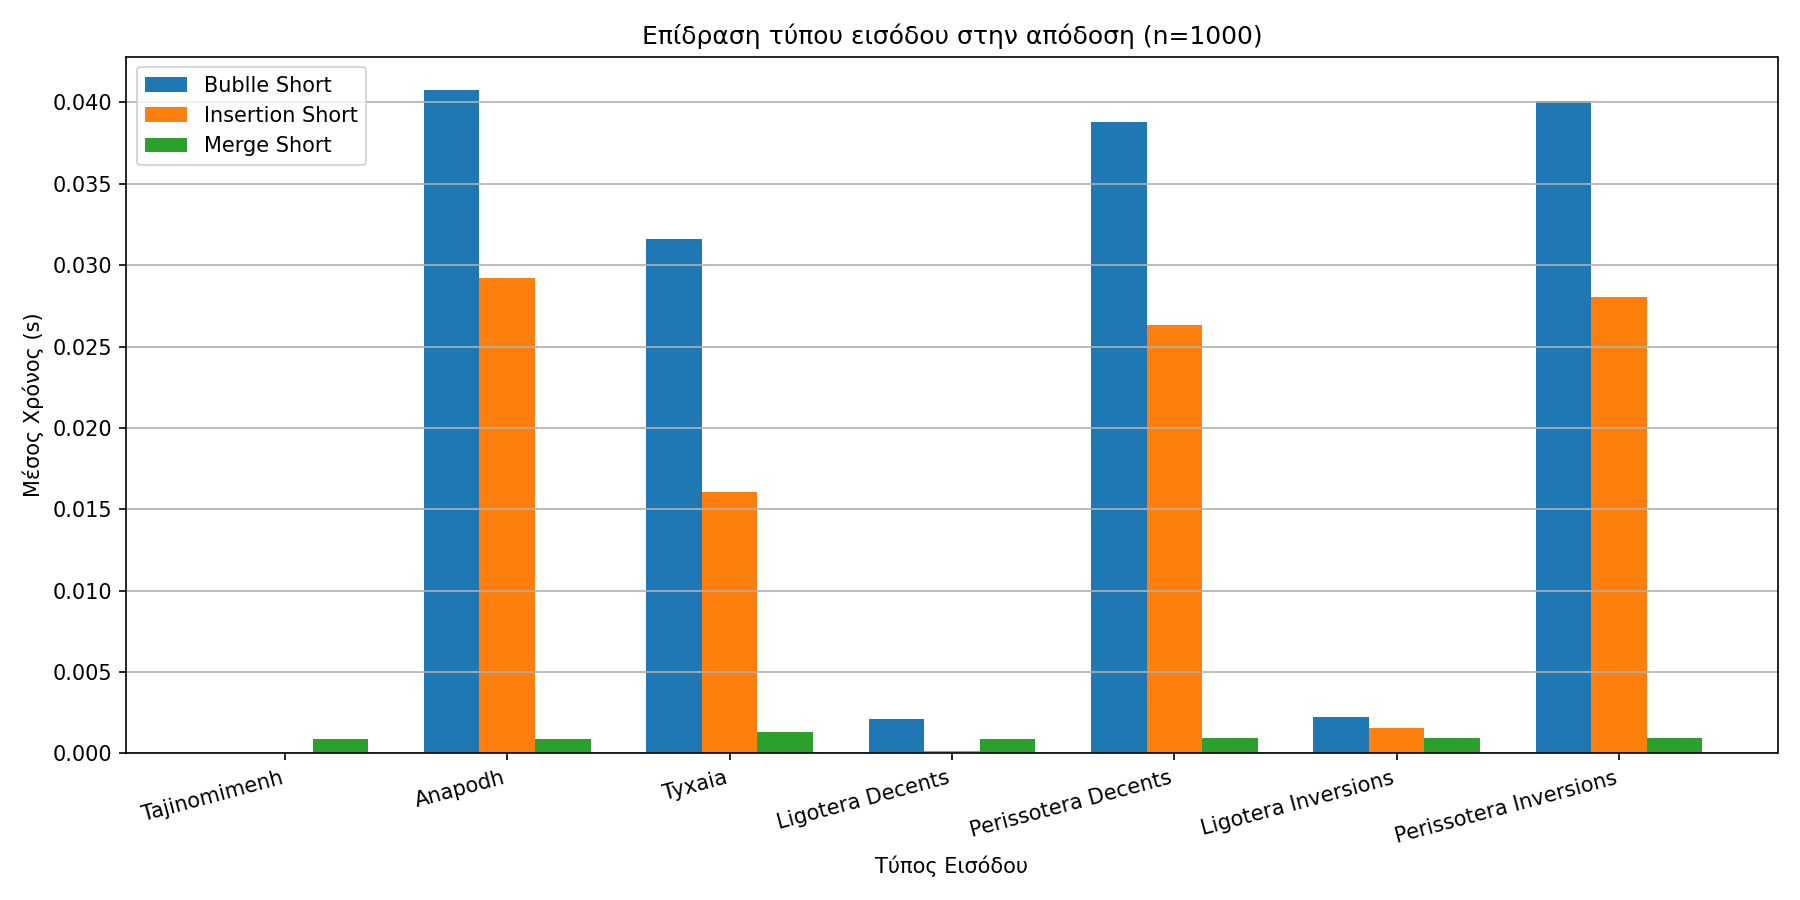
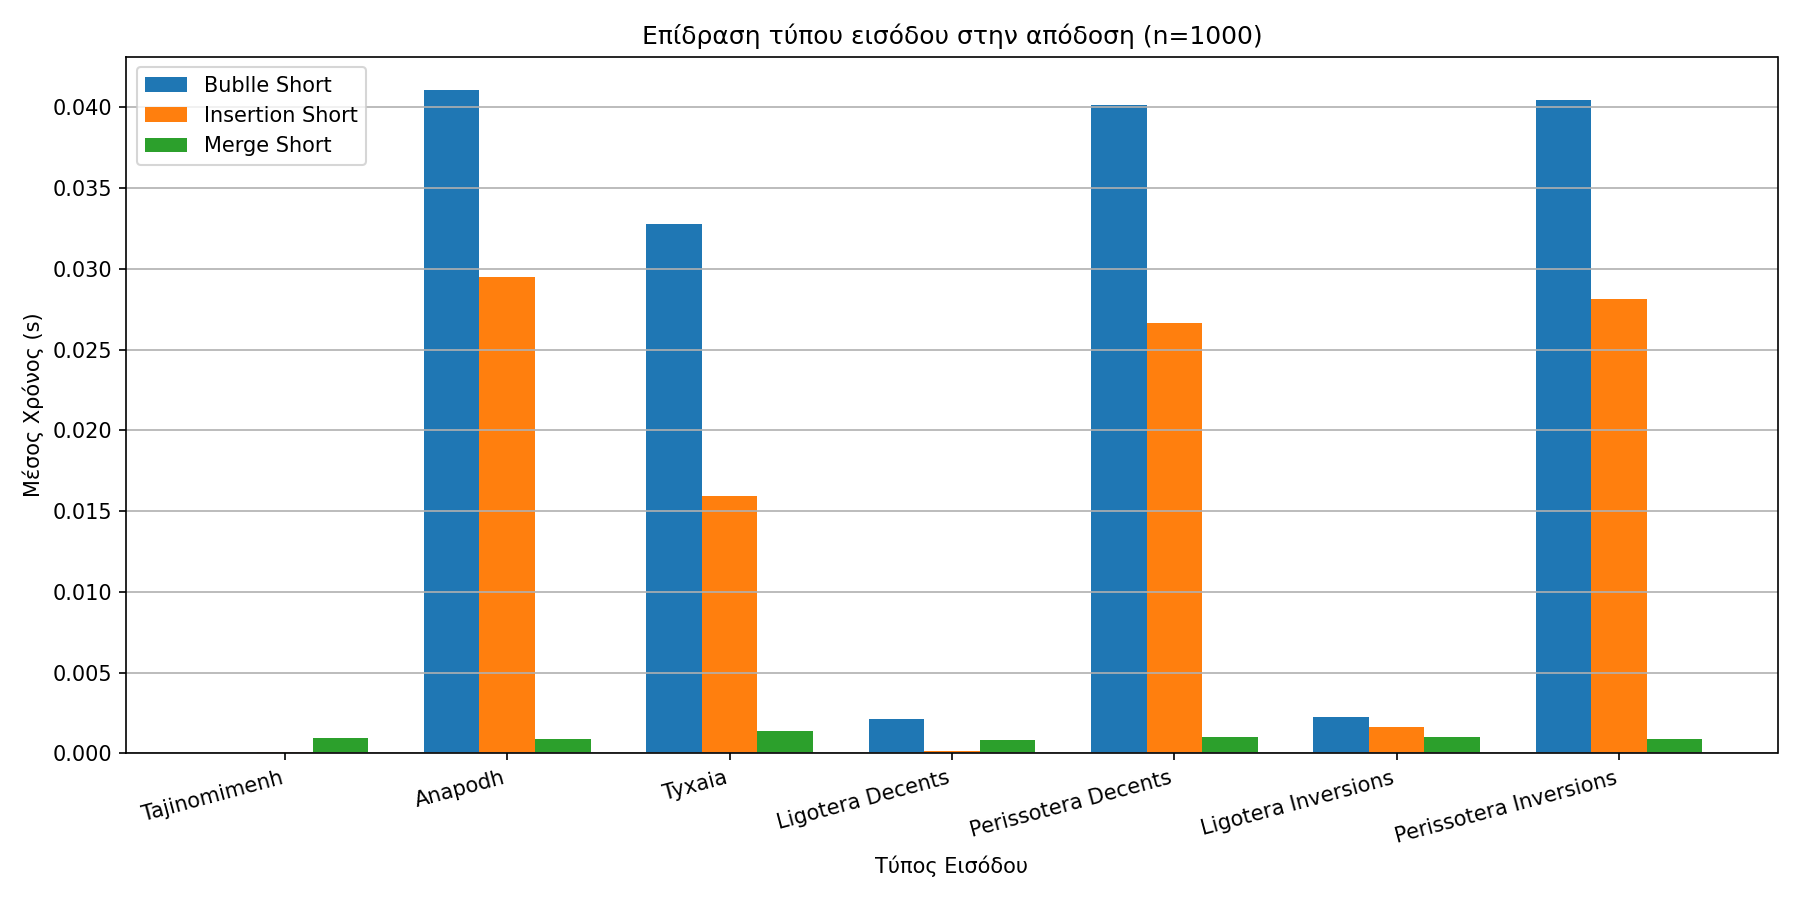
P2 etoimo , Prosthesa phges gia P1 kai P2

diff --git a/P2.py b/P2.py
@@ -1,0 +1,179 @@
+import random
+import heapq
+from itertools import combinations
+from collections import defaultdict
+
+VERTICES = ['s', 'A', 'B', 't']
+SOURCE = 's'
+
+def GraphoDimiourgosOTyxaios(vertices=VERTICES, p=0.7, q=0.3):
+
+    edges = {}
+    for u, v in combinations(vertices, 2):
+        if random.random() < p:
+            if random.random() < q:
+                edges[(u, v)] = -1
+                edges[(v, u)] = +1
+            else:
+                edges[(u, v)] = +1
+                edges[(v, u)] = -1
+    return edges
+
+def Geitniash(vertices, edges):
+    adj = {v: [] for v in vertices}
+    for (u, v), w in edges.items():
+        adj[u].append((v, w))
+    return adj
+
+def dijkstra(vertices, edges, source):
+
+    adj = Geitniash(vertices, edges)
+    dist = {v: float('inf') for v in vertices}
+    dist[source] = 0
+    pq = [(0, source)]
+    visited = set()
+
+    while pq:
+        d, u = heapq.heappop(pq)
+        if u in visited:
+            continue
+        visited.add(u)
+        for v, w in adj[u]:
+            if v not in visited and dist[u] + w < dist[v]:
+                dist[v] = dist[u] + w
+                heapq.heappush(pq, (dist[v], v))
+
+    return dist
+
+
+def bellman_ford(vertices, edges, source):
+
+    dist = {v: float('inf') for v in vertices}
+    dist[source] = 0
+    n = len(vertices)
+    edge_list = list(edges.items())
+
+    for _ in range(n - 1):
+        updated = False
+        for (u, v), w in edge_list:
+            if dist[u] != float('inf') and dist[u] + w < dist[v]:
+                dist[v] = dist[u] + w
+                updated = True
+        if not updated:
+            break
+
+    neg_cycle = False
+    for (u, v), w in edge_list:
+        if dist[u] != float('inf') and dist[u] + w < dist[v]:
+            neg_cycle = True
+            break
+
+    return dist, neg_cycle
+
+def ArnhtikesAkres(edges):
+    return any(w < 0 for w in edges.values())
+
+
+def dists_equal(d1, d2, vertices):
+    return all(d1[v] == d2[v] for v in vertices)
+
+SPECIFIC_EDGES = {
+    ('s', 'A'): +1, ('A', 's'): -1,
+    ('s', 'B'): -1, ('B', 's'): +1,
+    ('A', 'B'): +1, ('B', 'A'): -1,
+    ('A', 't'): +1, ('t', 'A'): -1,
+    ('B', 't'): +1, ('t', 'B'): -1,
+}
+
+def SygkekrimenoStigmiotypoTypeSheet():
+    print("Apo Sygkekrimeno Stgmiotypo")
+
+    print("\n Akmes kai Varh")
+    for (u, v), w in sorted(SPECIFIC_EDGES.items()):
+        print(f"  {u} -> {v}: {w:+d}")
+
+    neg = [(u, v, w) for (u, v), w in SPECIFIC_EDGES.items() if w < 0]
+    print(f"\nOi Arnhtikes akmes einai :({len(neg)}):")
+    for u, v, w in neg:
+        print(f"  {u} -> {v}: {w:+d}")
+
+    dijk = dijkstra(VERTICES, SPECIFIC_EDGES, SOURCE)
+    bf, neg_cycle = bellman_ford(VERTICES, SPECIFIC_EDGES, SOURCE)
+
+    print(f"\nYparxei arnhtikos kyklos ? {'Nai yparxei' if neg_cycle else 'Oxi Dystyxws'}")
+
+    print("\n O Dijkstra gia s:")
+    for v in VERTICES:
+        print(f"  dist[{v}] = {dijk[v]}")
+
+    print("\ O Bellman-Ford gia s:")
+    for v in VERTICES:
+        val = bf[v] if bf[v] != float('inf') else '∞'
+        print(f"  dist[{v}] = {val}")
+
+    correct = dists_equal(dijk, bf, VERTICES)
+    print(f"\nΔijkstra == Bellman-Ford: {'Nai einai!' if correct else 'Dystyxws oxi, tha mporouse alla telika den mporei'}")
+
+def Prosomoioths(AritmosDokimwn=10_000, seed=35):
+    random.seed(seed)
+
+    total = AritmosDokimwn
+    MetrhthsIOiArnhtikesAkmes     = 0
+    MetrhthsIIOiArnhtikoiKykloi     = 0
+    MetrhthsIIIOSwstos       = 0   
+    MetrhthsIVOLathos     = 0   
+    MetrhthsVOSwstosArnhtikos   = 0   
+    MetrhthsVIOLathosArnhtikos = 0   
+
+    for _ in range(total):
+        edges = GraphoDimiourgosOTyxaios()
+
+        neg_edges          = ArnhtikesAkres(edges)
+        bf_dist, neg_cycle = bellman_ford(VERTICES, edges, SOURCE)
+        dijk_dist          = dijkstra(VERTICES, edges, SOURCE)
+
+        if neg_edges:
+            MetrhthsIOiArnhtikesAkmes += 1
+        if neg_cycle:
+            MetrhthsIIOiArnhtikoiKykloi += 1
+
+        if not neg_cycle:
+            correct = dists_equal(dijk_dist, bf_dist, VERTICES)
+            if correct:
+                MetrhthsIIIOSwstos += 1
+                if neg_edges:
+                    MetrhthsVOSwstosArnhtikos += 1
+            else:
+                MetrhthsIVOLathos += 1
+                if neg_edges:
+                    MetrhthsVIOLathosArnhtikos += 1
+
+    no_cycle = total - MetrhthsIIOiArnhtikoiKykloi
+    with_neg_no_cycle = MetrhthsVOSwstosArnhtikos + MetrhthsVIOLathosArnhtikos
+
+    print(f"Trexw thn Prosomoiwsh me {total:,} tyxaious graphous kai parametrouw (p=0.7, q=0.3)")
+
+    print(f"\nOi Graphoi me arnhtikes akmes einai : {MetrhthsIOiArnhtikesAkmes:6,}  "
+          f"({100*MetrhthsIOiArnhtikesAkmes/total:.1f}%)")
+    print(f"Oi Graphoi me arnhtiko kyklo einai  : {MetrhthsIIOiArnhtikoiKykloi:6,}  "
+          f"({100*MetrhthsIIOiArnhtikoiKykloi/total:.1f}%)")
+
+    print(f"\n Oi Graohoi xwris arnhtiko kyklo einai : {no_cycle:6,} kai gia aytous")
+    if no_cycle:
+        print(f"  O Dijkstra htan swstos         : {MetrhthsIIIOSwstos:6,} fores "
+              f"({100*MetrhthsIIIOSwstos/no_cycle:.1f}%)")
+        print(f"  O Dijkstra htan lathos    : {MetrhthsIVOLathos:6,}  fores"
+              f"({100*MetrhthsIVOLathos/no_cycle:.1f}%)")
+
+    print(f"\nGia tous graphous me arnhtikes akmes kai xwris aenhtiko kyklo pou einai : "
+          f"{with_neg_no_cycle:,}")
+    if with_neg_no_cycle:
+        print(f"  O Dijkstra htan swstos         : {MetrhthsVOSwstosArnhtikos:6,}  "
+              f"({100*MetrhthsVOSwstosArnhtikos/with_neg_no_cycle:.1f}%)")
+        print(f"  O Dijkstra htan lathos    : {MetrhthsVIOLathosArnhtikos:6,}  "
+              f"({100*MetrhthsVIOLathosArnhtikos/with_neg_no_cycle:.1f}%)")
+
+
+if __name__ == '__main__':
+    SygkekrimenoStigmiotypoTypeSheet()
+    Prosomoioths(10_000)
